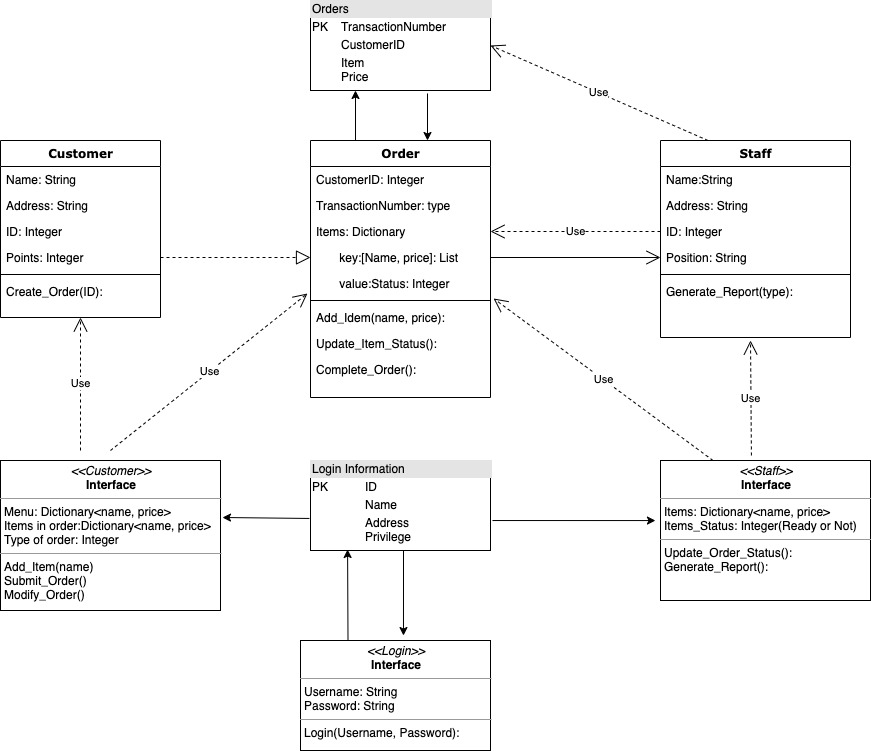
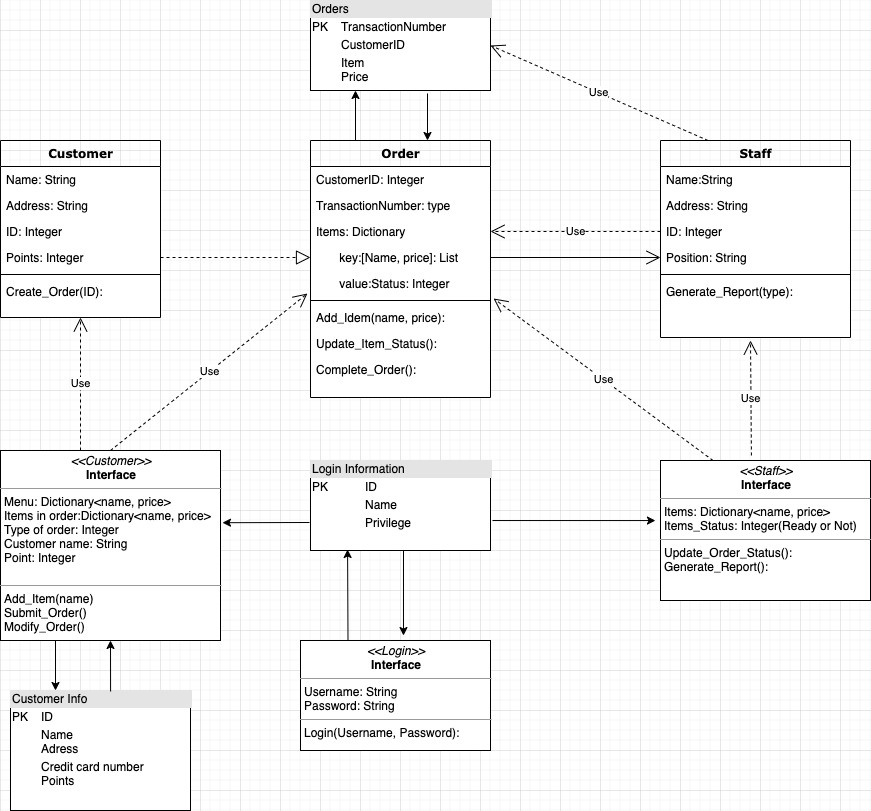
Add DB instructions, update project diagram

diff --git a/Login.py b/Login.py
@@ -8,7 +8,7 @@
 
 from PyQt5 import QtCore, QtGui, QtWidgets
 
-class Ui_MainWindow(object):
+class MyLogin(object):
     def setupUi(self, MainWindow):
         MainWindow.setObjectName("MainWindow")
         MainWindow.resize(800, 600)
@@ -47,14 +47,3 @@ class Ui_MainWindow(object):
         self.pushButton.setText(_translate("MainWindow", "Enter"))
         self.label.setText(_translate("MainWindow", "Username"))
         self.label_2.setText(_translate("MainWindow", "Password"))
-
-
-if __name__ == "__main__":
-    import sys
-    app = QtWidgets.QApplication(sys.argv)
-    MainWindow = QtWidgets.QMainWindow()
-    ui = Ui_MainWindow()
-    ui.setupUi(MainWindow)
-    MainWindow.show()
-    sys.exit(app.exec_())
-

diff --git a/app.py b/app.py
@@ -1,0 +1,22 @@
+#!/usr/bin/env python3
+# -*- coding: utf-8 -*-
+"""
+Created on Thu Nov 26 22:41:58 2020
+
+@author: nick
+"""
+import sys
+from PyQt5.QtWidgets import QDialog, QApplication, QMainWindow
+from Login import MyLogin
+
+class AppWindow(QMainWindow):
+    def __init__(self):
+        super().__init__()
+        self.ui = MyLogin()
+        self.ui.setupUi(self)
+        self.show()  
+
+app = QApplication(sys.argv)
+w = AppWindow()
+w.show()
+sys.exit(app.exec_())
